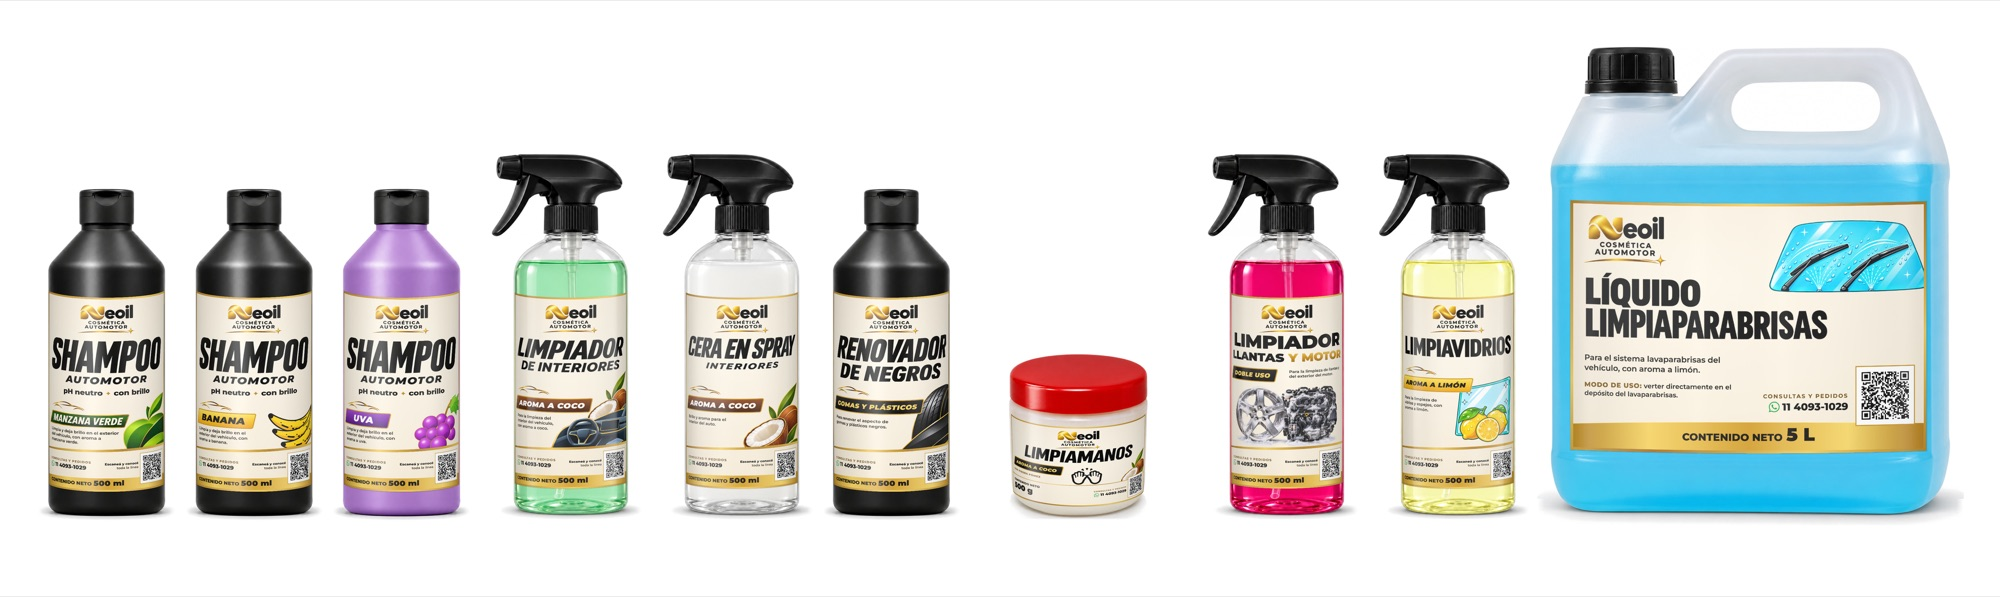
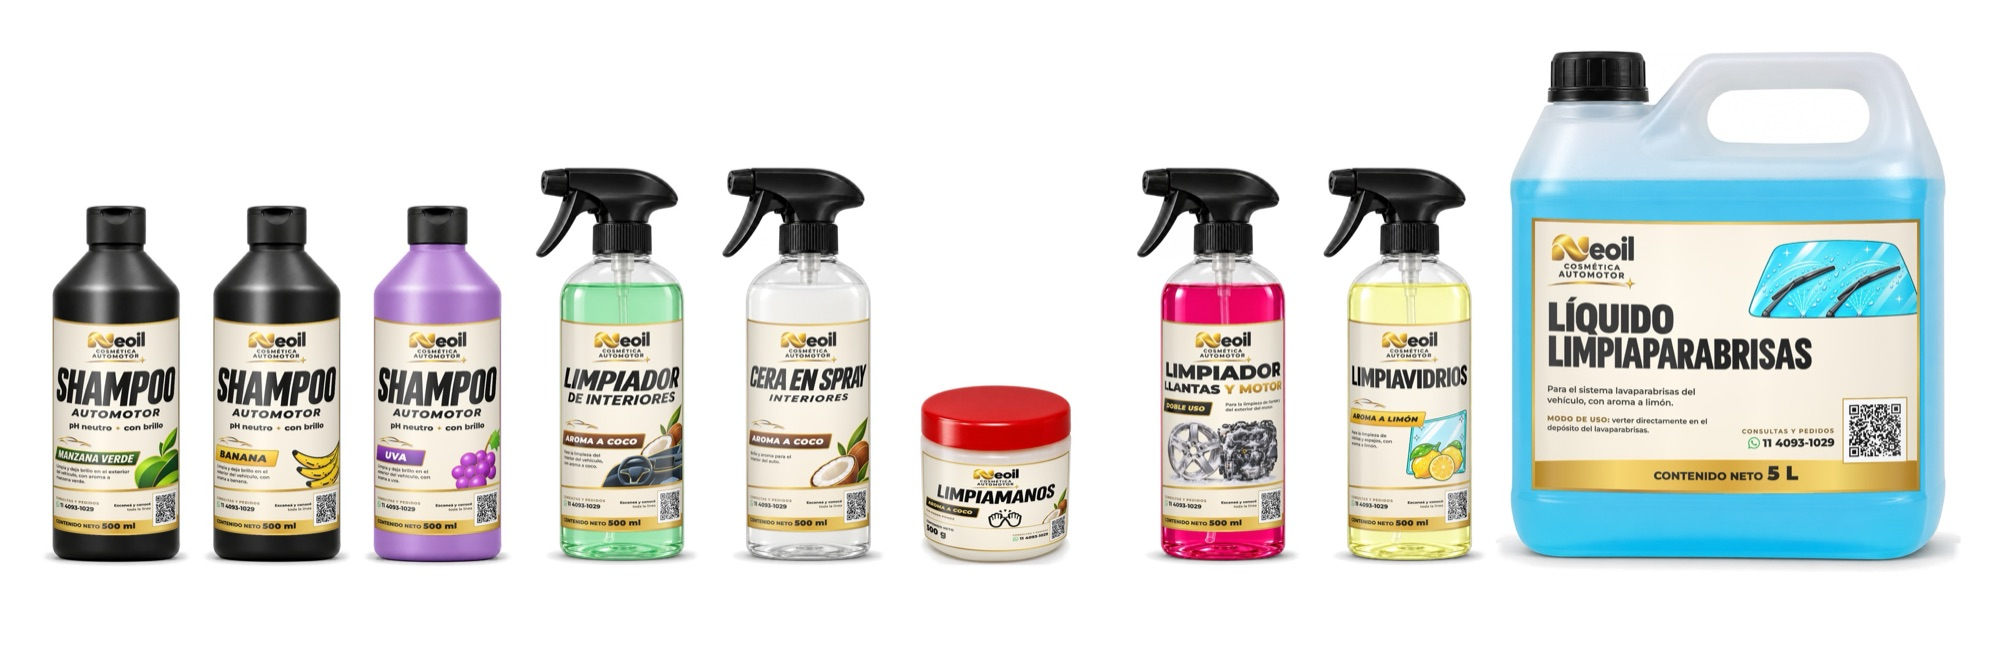
Cosmética: ocultar renovador de negros por ahora

diff --git a/cosmetica-automotor.html b/cosmetica-automotor.html
@@ -19,18 +19,18 @@
 <meta name="description" content="Conocé los productos de Neoil Cosmética Automotor para el lavado y cuidado del auto.">
 </head><body class="auto"><header class="top"><div class="wrap bar"><a href="./" class="brandlock" aria-label="Neoil Cosmética Automotor, elegir línea"><img class="wordmark" src="lineas/neoil-oro.png" alt="Neoil" width="900" height="275"><span class="brandsub" aria-hidden="true">Cosmética<br>Automotor</span><svg class="star" viewBox="0 0 24 24" aria-hidden="true"><path d="M12 0c1 7 5 11 12 12-7 1-11 5-12 12-1-7-5-11-12-12 7-1 11-5 12-12z"/></svg></a></div></header>
 <main>
-<section class="bighero"><div class="slides" aria-hidden="true"><img src="lineas/fotos/u-shampoo-manzana-verde.jpg" alt="" class=on><img src="lineas/fotos/u-limpiador-de-interiores.jpg" alt=""><img src="lineas/fotos/u-cera-en-spray-interiores.jpg" alt=""><img src="lineas/fotos/u-renovador-de-negros.jpg" alt=""><img src="lineas/fotos/u-limpiamanos.jpg" alt=""><img src="lineas/fotos/u-limpiador-de-llantas-y-motor.jpg" alt=""><img src="lineas/fotos/u-limpiavidrios.jpg" alt=""><img src="lineas/fotos/u-liquido-limpiaparabrisas.jpg" alt=""></div><div class="shade"></div>
+<section class="bighero"><div class="slides" aria-hidden="true"><img src="lineas/fotos/u-shampoo-manzana-verde.jpg" alt="" class=on><img src="lineas/fotos/u-limpiador-de-interiores.jpg" alt=""><img src="lineas/fotos/u-cera-en-spray-interiores.jpg" alt=""><img src="lineas/fotos/u-limpiamanos.jpg" alt=""><img src="lineas/fotos/u-limpiador-de-llantas-y-motor.jpg" alt=""><img src="lineas/fotos/u-limpiavidrios.jpg" alt=""><img src="lineas/fotos/u-liquido-limpiaparabrisas.jpg" alt=""></div><div class="shade"></div>
 <div class="wrap herotext"><a class="back light" href="./">← Elegir línea</a>
 <p class="kicker">Neoil Cosmética Automotor</p>
 <h1>Tu auto,<br><em>impecable</em><span>.</span></h1>
 <p class="herolead">Productos para lavar, cuidar y dar brillo por dentro y por fuera. Elegí uno y mirá para qué sirve y cómo se usa.</p>
 <div class="herobtns"><a class="action gold" href="#productos">Ver los productos</a></div>
-<div class="dots" aria-hidden="true"><i></i><i></i><i></i><i></i><i></i><i></i><i></i><i></i></div></div></section>
-<div class="ribbon2" aria-hidden="true"><div class="track"><span style="--c:#58b01c">Shampoo neutro</span><span style="--c:#1fae8a">Limpiador de interiores</span><span style="--c:#b9772f">Cera en spray interiores</span><span style="--c:#c9982c">Renovador de negros</span><span style="--c:#d9342b">Limpiamanos</span><span style="--c:#e3208c">Limpiador de llantas y motor</span><span style="--c:#e0b000">Limpiavidrios</span><span style="--c:#1b9fe0">Líquido limpiaparabrisas</span><span style="--c:#58b01c">Shampoo neutro</span><span style="--c:#1fae8a">Limpiador de interiores</span><span style="--c:#b9772f">Cera en spray interiores</span><span style="--c:#c9982c">Renovador de negros</span><span style="--c:#d9342b">Limpiamanos</span><span style="--c:#e3208c">Limpiador de llantas y motor</span><span style="--c:#e0b000">Limpiavidrios</span><span style="--c:#1b9fe0">Líquido limpiaparabrisas</span></div></div>
+<div class="dots" aria-hidden="true"><i></i><i></i><i></i><i></i><i></i><i></i><i></i></div></div></section>
+<div class="ribbon2" aria-hidden="true"><div class="track"><span style="--c:#58b01c">Shampoo neutro</span><span style="--c:#1fae8a">Limpiador de interiores</span><span style="--c:#b9772f">Cera en spray interiores</span><span style="--c:#d9342b">Limpiamanos</span><span style="--c:#e3208c">Limpiador de llantas y motor</span><span style="--c:#e0b000">Limpiavidrios</span><span style="--c:#1b9fe0">Líquido limpiaparabrisas</span><span style="--c:#58b01c">Shampoo neutro</span><span style="--c:#1fae8a">Limpiador de interiores</span><span style="--c:#b9772f">Cera en spray interiores</span><span style="--c:#d9342b">Limpiamanos</span><span style="--c:#e3208c">Limpiador de llantas y motor</span><span style="--c:#e0b000">Limpiavidrios</span><span style="--c:#1b9fe0">Líquido limpiaparabrisas</span></div></div>
 <div class="wrap">
-<section class="lineup reveal"><h2>Toda la línea<span>.</span></h2><figure><img src="lineas/fotos/linea-completa.jpg" alt="Todos los productos de Neoil Cosmética Automotor"></figure></section>
+<section class="lineup reveal"><h2>Toda la línea<span>.</span></h2><figure><img src="lineas/fotos/linea-completa.jpg?v=2" alt="Todos los productos de Neoil Cosmética Automotor"></figure></section>
 <section id="productos"><h2 class="reveal">Elegí tu producto<span>.</span></h2>
-<div class="pgrid"><a class="pcard reveal" style="--c:#58b01c;--d:0ms" href="producto-shampoo"><div class="pimg"><img src="lineas/fotos/u-shampoo-manzana-verde.jpg" alt="" loading="lazy"><span class="chip">Lavado exterior</span><span class="motochip">Auto y moto</span></div><div class="pbody"><h3>Shampoo neutro</h3><p>pH neutro, con brillo. Tres aromas.</p><span class="more">Ver producto<i aria-hidden="true">→</i></span></div></a><a class="pcard reveal" style="--c:#1fae8a;--d:80ms" href="producto-limpiador-de-interiores"><div class="pimg"><img src="lineas/fotos/u-limpiador-de-interiores.jpg" alt="" loading="lazy"><span class="chip">Habitáculo</span></div><div class="pbody"><h3>Limpiador de interiores</h3><p>Para el interior del vehículo, con aroma a coco.</p><span class="more">Ver producto<i aria-hidden="true">→</i></span></div></a><a class="pcard reveal" style="--c:#b9772f;--d:160ms" href="producto-cera-en-spray"><div class="pimg"><img src="lineas/fotos/u-cera-en-spray-interiores.jpg" alt="" loading="lazy"><span class="chip">Habitáculo</span></div><div class="pbody"><h3>Cera en spray interiores</h3><p>Brillo y aroma a coco para el interior.</p><span class="more">Ver producto<i aria-hidden="true">→</i></span></div></a><a class="pcard reveal" style="--c:#c9982c;--d:240ms" href="producto-renovador-de-negros"><div class="pimg"><img src="lineas/fotos/u-renovador-de-negros.jpg" alt="" loading="lazy"><span class="chip">Terminación exterior</span><span class="motochip">Auto y moto</span></div><div class="pbody"><h3>Renovador de negros</h3><p>Para gomas y plásticos negros.</p><span class="more">Ver producto<i aria-hidden="true">→</i></span></div></a><a class="pcard reveal" style="--c:#d9342b;--d:0ms" href="producto-limpiamanos"><div class="pimg"><img src="lineas/fotos/u-limpiamanos.jpg" alt="" loading="lazy"><span class="chip">Taller</span></div><div class="pbody"><h3>Limpiamanos</h3><p>Crema con piedra pómez, aroma a coco.</p><span class="more">Ver producto<i aria-hidden="true">→</i></span></div></a><a class="pcard reveal" style="--c:#e3208c;--d:80ms" href="producto-limpiador-de-llantas-y-motor"><div class="pimg"><img src="lineas/fotos/u-limpiador-de-llantas-y-motor.jpg" alt="" loading="lazy"><span class="chip">Ruedas y motor</span><span class="motochip">Auto y moto</span></div><div class="pbody"><h3>Limpiador de llantas y motor</h3><p>Doble uso: llantas y exterior del motor.</p><span class="more">Ver producto<i aria-hidden="true">→</i></span></div></a><a class="pcard reveal" style="--c:#e0b000;--d:160ms" href="producto-limpiavidrios"><div class="pimg"><img src="lineas/fotos/u-limpiavidrios.jpg" alt="" loading="lazy"><span class="chip">Cristales</span></div><div class="pbody"><h3>Limpiavidrios</h3><p>Para vidrios y espejos, con aroma a limón.</p><span class="more">Ver producto<i aria-hidden="true">→</i></span></div></a><a class="pcard reveal" style="--c:#1b9fe0;--d:240ms" href="producto-liquido-limpiaparabrisas"><div class="pimg"><img src="lineas/fotos/u-liquido-limpiaparabrisas.jpg" alt="" loading="lazy"><span class="chip">Sistema lavaparabrisas</span></div><div class="pbody"><h3>Líquido limpiaparabrisas</h3><p>Bidón de 5 L, con aroma a limón.</p><span class="more">Ver producto<i aria-hidden="true">→</i></span></div></a></div></section>
+<div class="pgrid"><a class="pcard reveal" style="--c:#58b01c;--d:0ms" href="producto-shampoo"><div class="pimg"><img src="lineas/fotos/u-shampoo-manzana-verde.jpg" alt="" loading="lazy"><span class="chip">Lavado exterior</span><span class="motochip">Auto y moto</span></div><div class="pbody"><h3>Shampoo neutro</h3><p>pH neutro, con brillo. Tres aromas.</p><span class="more">Ver producto<i aria-hidden="true">→</i></span></div></a><a class="pcard reveal" style="--c:#1fae8a;--d:80ms" href="producto-limpiador-de-interiores"><div class="pimg"><img src="lineas/fotos/u-limpiador-de-interiores.jpg" alt="" loading="lazy"><span class="chip">Habitáculo</span></div><div class="pbody"><h3>Limpiador de interiores</h3><p>Para el interior del vehículo, con aroma a coco.</p><span class="more">Ver producto<i aria-hidden="true">→</i></span></div></a><a class="pcard reveal" style="--c:#b9772f;--d:160ms" href="producto-cera-en-spray"><div class="pimg"><img src="lineas/fotos/u-cera-en-spray-interiores.jpg" alt="" loading="lazy"><span class="chip">Habitáculo</span></div><div class="pbody"><h3>Cera en spray interiores</h3><p>Brillo y aroma a coco para el interior.</p><span class="more">Ver producto<i aria-hidden="true">→</i></span></div></a><a class="pcard reveal" style="--c:#d9342b;--d:240ms" href="producto-limpiamanos"><div class="pimg"><img src="lineas/fotos/u-limpiamanos.jpg" alt="" loading="lazy"><span class="chip">Taller</span></div><div class="pbody"><h3>Limpiamanos</h3><p>Crema con piedra pómez, aroma a coco.</p><span class="more">Ver producto<i aria-hidden="true">→</i></span></div></a><a class="pcard reveal" style="--c:#e3208c;--d:0ms" href="producto-limpiador-de-llantas-y-motor"><div class="pimg"><img src="lineas/fotos/u-limpiador-de-llantas-y-motor.jpg" alt="" loading="lazy"><span class="chip">Ruedas y motor</span><span class="motochip">Auto y moto</span></div><div class="pbody"><h3>Limpiador de llantas y motor</h3><p>Doble uso: llantas y exterior del motor.</p><span class="more">Ver producto<i aria-hidden="true">→</i></span></div></a><a class="pcard reveal" style="--c:#e0b000;--d:80ms" href="producto-limpiavidrios"><div class="pimg"><img src="lineas/fotos/u-limpiavidrios.jpg" alt="" loading="lazy"><span class="chip">Cristales</span></div><div class="pbody"><h3>Limpiavidrios</h3><p>Para vidrios y espejos, con aroma a limón.</p><span class="more">Ver producto<i aria-hidden="true">→</i></span></div></a><a class="pcard reveal" style="--c:#1b9fe0;--d:160ms" href="producto-liquido-limpiaparabrisas"><div class="pimg"><img src="lineas/fotos/u-liquido-limpiaparabrisas.jpg" alt="" loading="lazy"><span class="chip">Sistema lavaparabrisas</span></div><div class="pbody"><h3>Líquido limpiaparabrisas</h3><p>Bidón de 5 L, con aroma a limón.</p><span class="more">Ver producto<i aria-hidden="true">→</i></span></div></a></div></section>
 <a class="igband reveal" href="https://www.instagram.com/neoil.cosmeticaautomotor/" target="_blank" rel="noopener"><svg class="ig" viewBox="0 0 24 24" aria-hidden="true" fill="none" stroke="currentColor" stroke-width="2"><rect x="3" y="3" width="18" height="18" rx="5"/><circle cx="12" cy="12" r="4.2"/><circle cx="17.4" cy="6.6" r="1.2" fill="currentColor" stroke="none"/></svg><span><small>Seguinos en Instagram</small><b>@neoil.cosmeticaautomotor</b></span><i aria-hidden="true">→</i></a>
 </div><a class="wafloat" href="https://wa.me/5491140931029?text=Hola%2C%20quiero%20consultar%20por%20la%20l%C3%ADnea%20Neoil%20Cosm%C3%A9tica%20Automotor." target="_blank" rel="noopener" aria-label="Consultar por WhatsApp"><svg class="wa" viewBox="0 0 24 24" aria-hidden="true"><path fill="currentColor" d="M20.52 3.48A11.85 11.85 0 0 0 12.04 0C5.46 0 .1 5.35.1 11.94c0 2.1.55 4.16 1.6 5.97L0 24l6.25-1.64a11.94 11.94 0 0 0 5.79 1.48h.01C18.63 23.84 24 18.49 24 11.9c0-3.19-1.24-6.18-3.48-8.42zM12.04 21.83a9.9 9.9 0 0 1-5.05-1.38l-.36-.21-3.71.97.99-3.61-.24-.38a9.91 9.91 0 1 1 8.37 4.61zm5.44-7.42c-.3-.15-1.76-.87-2.03-.97-.28-.1-.48-.15-.68.15-.2.3-.77.97-.94 1.17-.17.2-.35.22-.65.07-.3-.15-1.26-.46-2.4-1.49-.89-.79-1.49-1.77-1.66-2.07-.17-.3-.02-.46.13-.61.13-.13.3-.35.45-.52.15-.18.2-.3.3-.5.1-.2.05-.37-.03-.52-.07-.15-.67-1.62-.92-2.22-.24-.58-.49-.5-.67-.51h-.57c-.2 0-.52.07-.79.37-.27.3-1.04 1.02-1.04 2.49s1.07 2.89 1.22 3.09c.15.2 2.1 3.2 5.09 4.49.71.3 1.27.49 1.7.63.71.22 1.36.19 1.87.12.57-.09 1.76-.72 2.01-1.42.25-.7.25-1.3.17-1.42-.07-.12-.27-.2-.57-.34z"/></svg><span>Escribinos</span></a>
 </main><script src="lineas/cosmetica.js?v=7" defer></script><footer class="wrap bottom"><span>Neoil</span><a class="igfoot" href="https://www.instagram.com/neoil.cosmeticaautomotor/" target="_blank" rel="noopener"><svg class="ig" viewBox="0 0 24 24" aria-hidden="true" fill="none" stroke="currentColor" stroke-width="2"><rect x="3" y="3" width="18" height="18" rx="5"/><circle cx="12" cy="12" r="4.2"/><circle cx="17.4" cy="6.6" r="1.2" fill="currentColor" stroke="none"/></svg>@neoil.cosmeticaautomotor</a><a href="mailto:lubricantesneoil@gmail.com">lubricantesneoil@gmail.com</a></footer></body></html>

diff --git a/producto-cera-en-spray.html b/producto-cera-en-spray.html
@@ -25,6 +25,6 @@
 </div>
 <figure class="puse"><img id="useimg" src="lineas/fotos/u-cera-en-spray-interiores.jpg" alt="Cera en spray interiores en uso"></figure></section>
 <section class="pduo reveal"><div class="variants one"><figure class="variant"><img src="lineas/fotos/p-cera-en-spray-interiores.jpg" alt="Cera en spray interiores · Aroma a coco" loading="lazy"><figcaption>Aroma a coco</figcaption></figure></div><div class="pinfo col"><div><h2>Para qué sirve<span>.</span></h2><ul><li>Dar brillo a tablero y plásticos interiores.</li><li>Renovar el aspecto del interior.</li><li>Dejar aroma a coco.</li></ul></div><div><h2>Cómo se usa<span>.</span></h2><ol><li>Aplicá sobre la superficie limpia y seca.</li><li>Rociá sobre un paño de microfibra.</li><li>Distribuí de forma pareja y retirá el excedente con un paño seco.</li></ol></div></div></section>
-<a class="nextcard reveal" style="--c:#c9982c" href="producto-renovador-de-negros"><img src="lineas/fotos/u-renovador-de-negros.jpg" alt="" loading="lazy"><span><small>Siguiente producto</small><b>Renovador de negros →</b></span></a>
+<a class="nextcard reveal" style="--c:#d9342b" href="producto-limpiamanos"><img src="lineas/fotos/u-limpiamanos.jpg" alt="" loading="lazy"><span><small>Siguiente producto</small><b>Limpiamanos →</b></span></a>
 <a class="wafloat" href="https://wa.me/5491140931029?text=Hola%2C%20quiero%20consultar%20por%20Cera%20en%20spray%20interiores%20de%20Neoil%20Cosm%C3%A9tica%20Automotor." target="_blank" rel="noopener" aria-label="Consultar por WhatsApp"><svg class="wa" viewBox="0 0 24 24" aria-hidden="true"><path fill="currentColor" d="M20.52 3.48A11.85 11.85 0 0 0 12.04 0C5.46 0 .1 5.35.1 11.94c0 2.1.55 4.16 1.6 5.97L0 24l6.25-1.64a11.94 11.94 0 0 0 5.79 1.48h.01C18.63 23.84 24 18.49 24 11.9c0-3.19-1.24-6.18-3.48-8.42zM12.04 21.83a9.9 9.9 0 0 1-5.05-1.38l-.36-.21-3.71.97.99-3.61-.24-.38a9.91 9.91 0 1 1 8.37 4.61zm5.44-7.42c-.3-.15-1.76-.87-2.03-.97-.28-.1-.48-.15-.68.15-.2.3-.77.97-.94 1.17-.17.2-.35.22-.65.07-.3-.15-1.26-.46-2.4-1.49-.89-.79-1.49-1.77-1.66-2.07-.17-.3-.02-.46.13-.61.13-.13.3-.35.45-.52.15-.18.2-.3.3-.5.1-.2.05-.37-.03-.52-.07-.15-.67-1.62-.92-2.22-.24-.58-.49-.5-.67-.51h-.57c-.2 0-.52.07-.79.37-.27.3-1.04 1.02-1.04 2.49s1.07 2.89 1.22 3.09c.15.2 2.1 3.2 5.09 4.49.71.3 1.27.49 1.7.63.71.22 1.36.19 1.87.12.57-.09 1.76-.72 2.01-1.42.25-.7.25-1.3.17-1.42-.07-.12-.27-.2-.57-.34z"/></svg><span>Escribinos</span></a>
 </main><script src="lineas/cosmetica.js?v=7" defer></script><footer class="wrap bottom"><span>Neoil</span><a class="igfoot" href="https://www.instagram.com/neoil.cosmeticaautomotor/" target="_blank" rel="noopener"><svg class="ig" viewBox="0 0 24 24" aria-hidden="true" fill="none" stroke="currentColor" stroke-width="2"><rect x="3" y="3" width="18" height="18" rx="5"/><circle cx="12" cy="12" r="4.2"/><circle cx="17.4" cy="6.6" r="1.2" fill="currentColor" stroke="none"/></svg>@neoil.cosmeticaautomotor</a><a href="mailto:lubricantesneoil@gmail.com">lubricantesneoil@gmail.com</a></footer></body></html>
